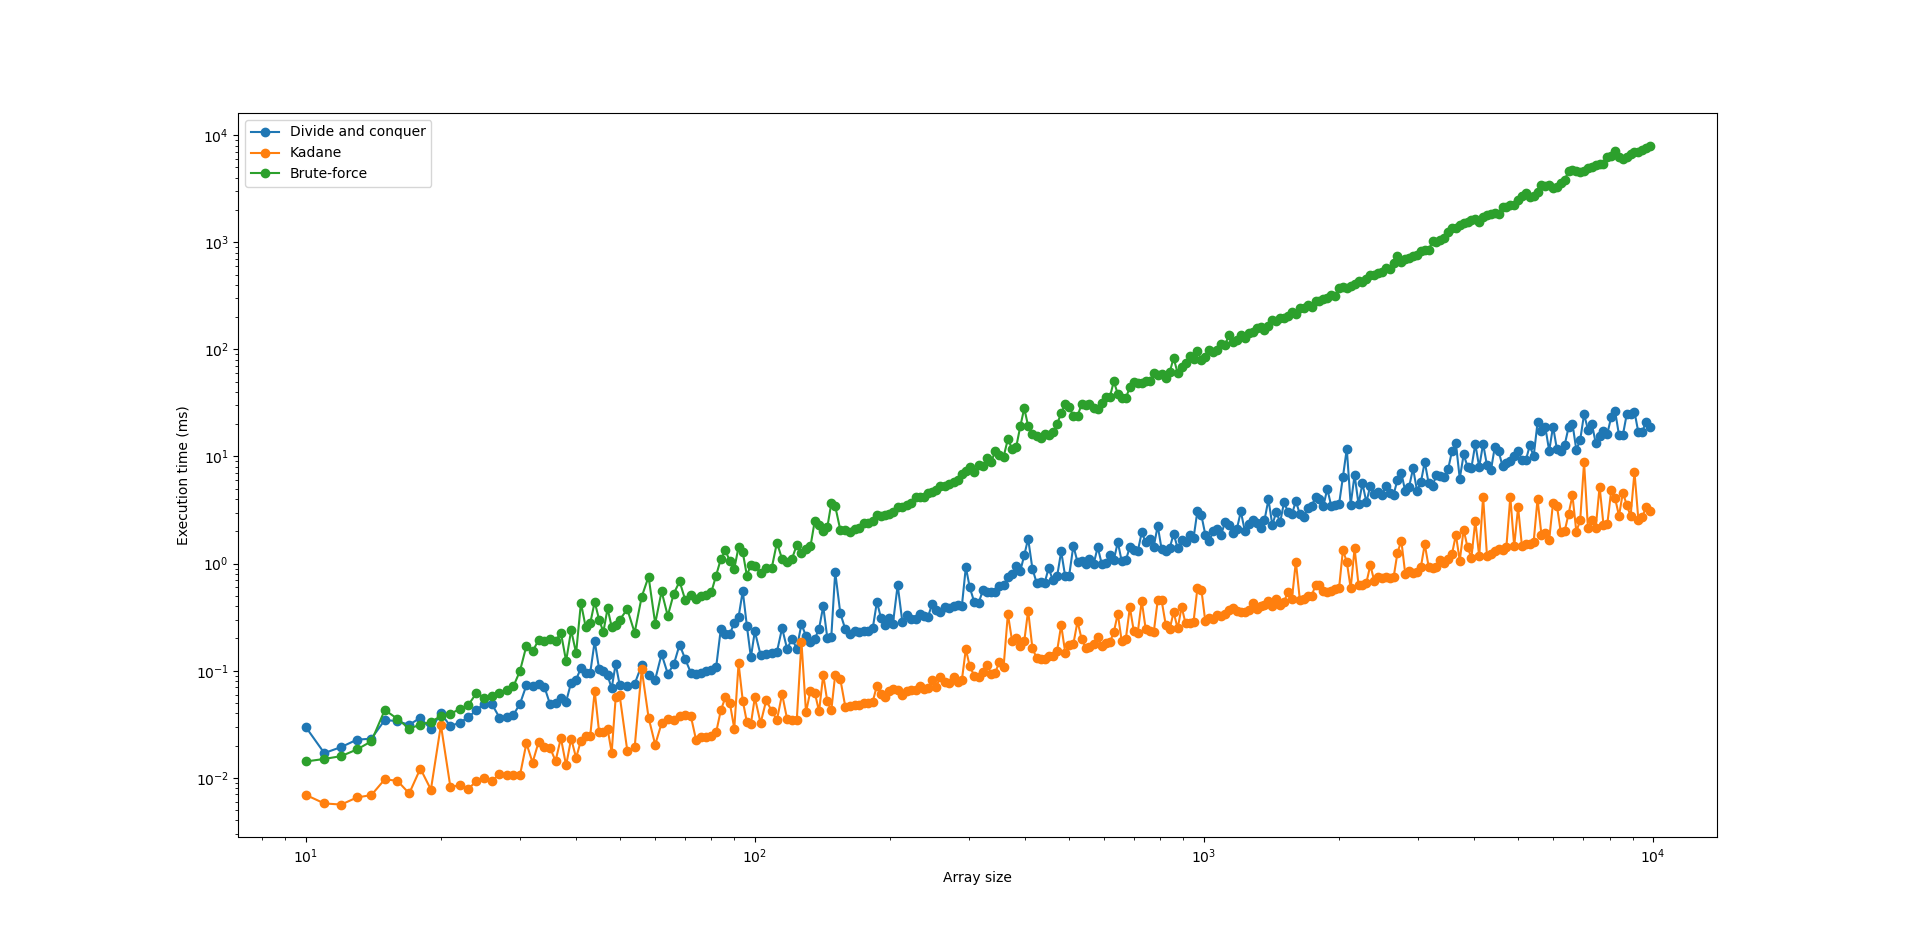
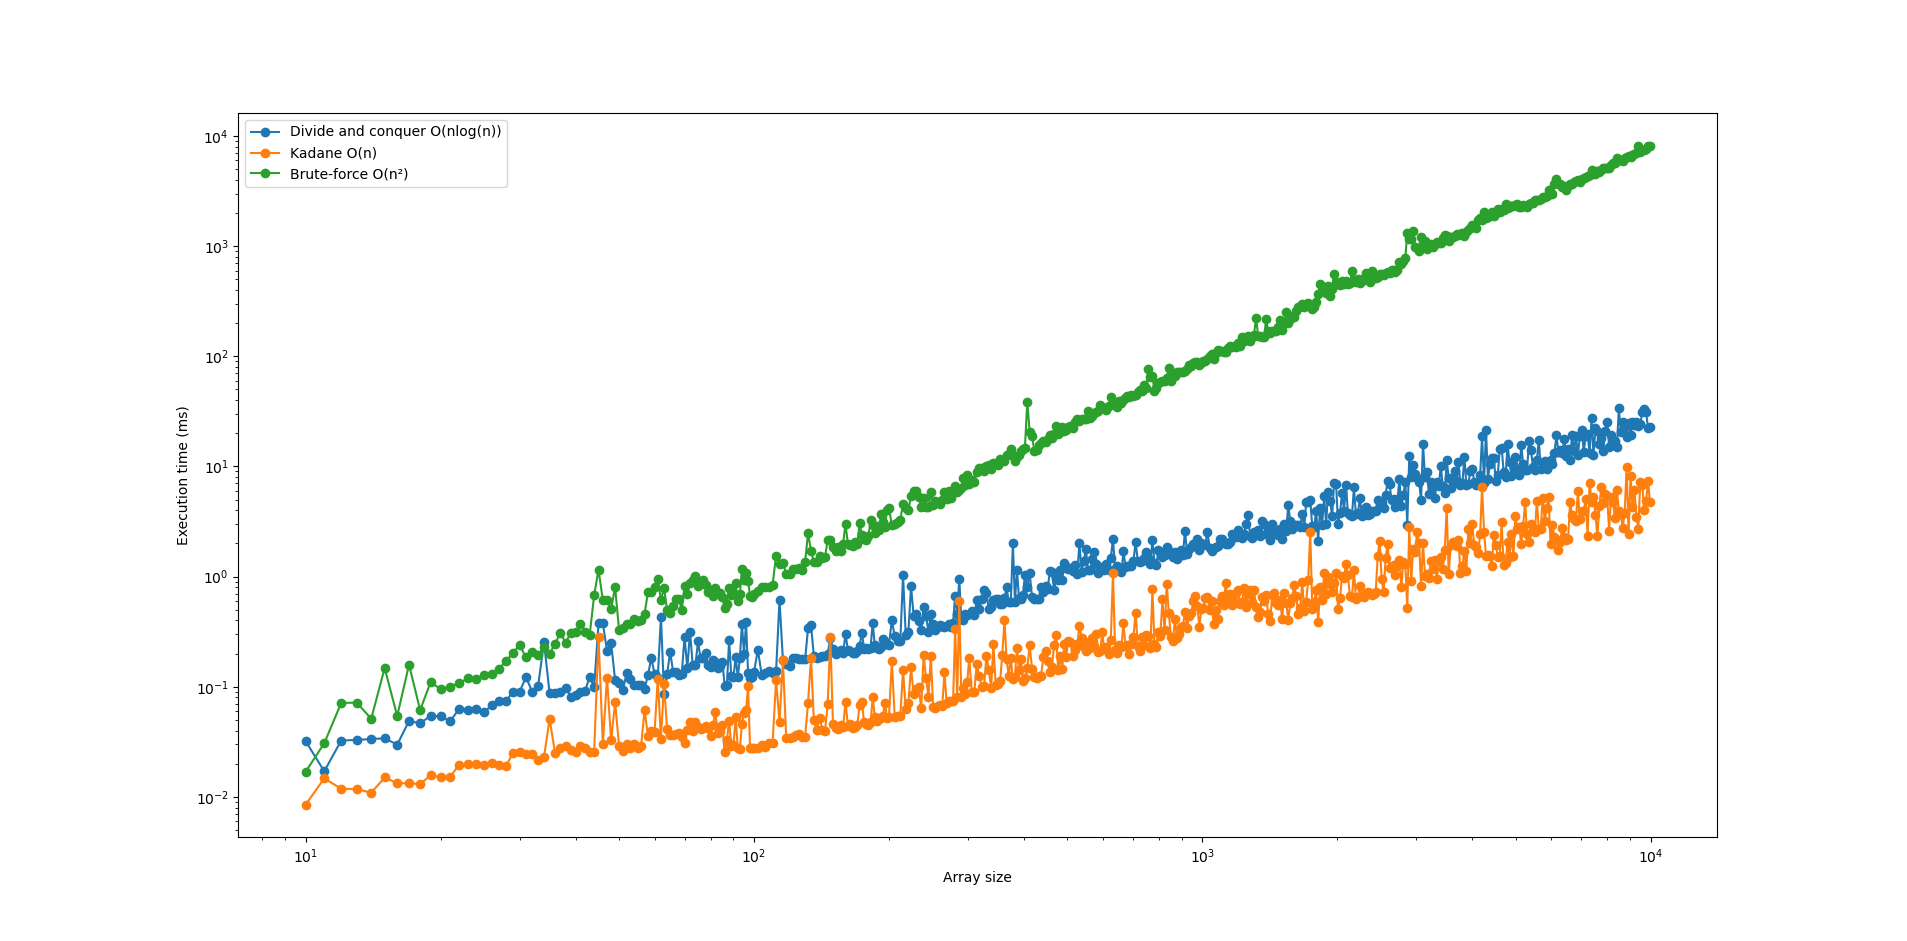
Little changes.

diff --git a/maximum_subarray.py b/maximum_subarray.py
@@ -60,14 +60,14 @@ def max_subarray_kadane(arr:list):
 class Test:
     def __init__(self):
         self.algorithms = {
-            "Divide and conquer": lambda arr :  find_max_subarray(arr, 0, len(arr)-1)[2],
-            "Kadane":max_subarray_kadane,
-            "Brute-force":max_subarray_brute_force,
+            "Divide and conquer O(nlog(n))": lambda arr :  find_max_subarray(arr, 0, len(arr)-1)[2],
+            "Kadane O(n)":max_subarray_kadane,
+            "Brute-force O(n²)":max_subarray_brute_force,
         }
         self.results = {
-            "Divide and conquer": [],
-            "Kadane": [],
-            "Brute-force": [],
+            "Divide and conquer O(nlog(n))": [],
+            "Kadane O(n)": [],
+            "Brute-force O(n²)": [],
         }
         self.sizes = []
 
@@ -111,6 +111,6 @@ t = Test()
 i = 10
 while i<=10_000:
     t.timer(i)
-    i = int(i*1.02) + 1
+    i = int(i*1.01) + 1
 
 t.plot_results()
